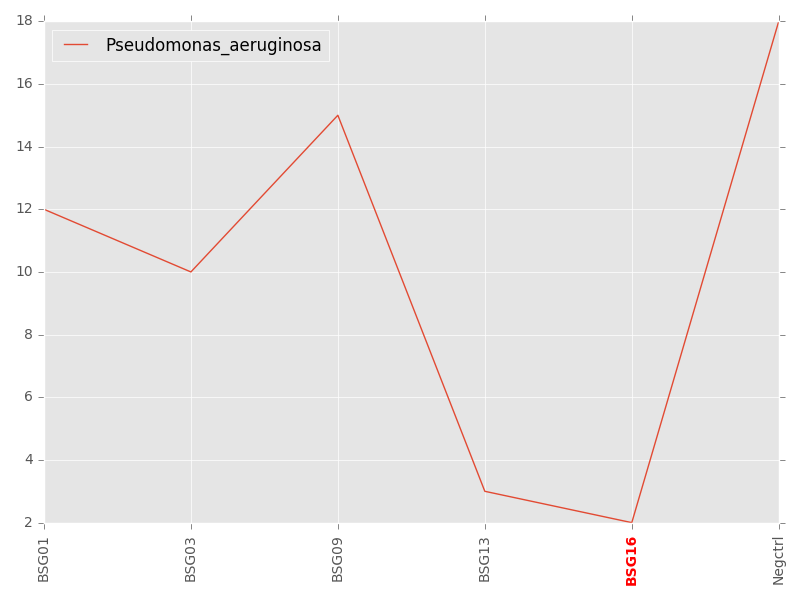
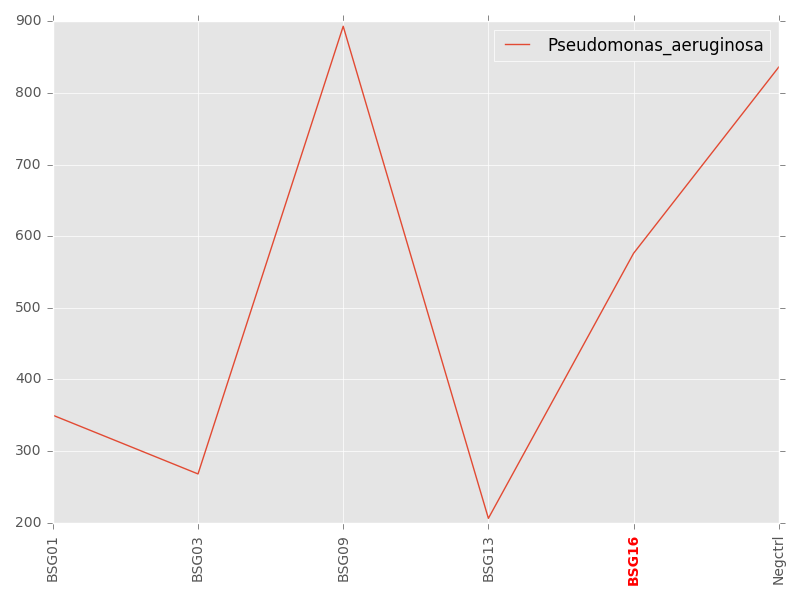
Madified plots

diff --git a/get_count_across_samples.py b/get_count_across_samples.py
@@ -16,10 +16,13 @@ tax_df['rank'] = [i.strip() for i in tax_df['rank']]
 def get_species_count(df, id, species_df, row_name, col_name):
     _t = df[df['tax_id'] == id]
     if not _t.empty:
+        species_df = species_df.fillna(0)
         val = 0
-        if row_name in species_df.index.values and col_name in species_df.columns.values:
-            val = species_df[col_name][row_name]
-        species_df = species_df.set_value(col_name, row_name, val + len(_t))
+        if col_name in species_df.index.values and row_name in species_df.columns.values:
+            val = species_df[row_name][col_name]
+        val += len(_t)
+        species_df = species_df.set_value(col_name, row_name, val)
+    return species_df
 
 def get_counts_df(path, species_df):
     df = pd.read_table(path, sep='\t', names=["classified", "id", "tax_id", "kmers", "text"])
@@ -28,17 +31,19 @@ def get_counts_df(path, species_df):
     print(name)
     for i in ids:
         col_name = tax_df.ix[i]['name'].replace(" ","_")
-        get_species_count(df, i, species_df, name, col_name)
+        species_df = get_species_count(df, i, species_df, name, col_name)
         parent_id = tax_df.ix[i]['parent_id']
         while tax_df.ix[parent_id]['rank'] != "genus":
             parent_id = tax_df.ix[parent_id]['parent_id']
         col_name = tax_df.ix[parent_id]['name'].replace(" ","_") + "_unclassified"
         if col_name not in species_df.columns.values:
-            get_species_count(df, parent_id, species_df, name, col_name)
+            species_df = get_species_count(df, parent_id, species_df, name, col_name)
         child = tax_df[tax_df['parent_id'] == i].index.values
         for _i in child:
             col_name = tax_df.ix[i]['name'].replace(" ","_")
-            get_species_count(df, _i, species_df, name, col_name)
+            species_df = get_species_count(df, _i, species_df, name, col_name)
+    print(species_df[name])
+    return species_df
 
 def format_df(df):
     for i in df.columns.values:
@@ -50,15 +55,15 @@ def plot_species(df):
     for i in range(0, len(cols), 2):
         print(cols[i])
         print(cols[i+1])
-        df[[cols[i], cols[i+1]]].plot()
+        df[[cols[i]]].plot()
         for tick in plt.gca().xaxis.get_major_ticks():
             sample_name = tick.label.get_text().split("_")[0]
             if cols[i].split("_")[0] in samples[sample_name]:                
-                tick.label1.set_color("red")
-                tick.label1.set_fontweight("bold")
+                tick.label.set_color("red")
+                tick.label.set_fontweight("bold")
         plt.xticks(rotation=90)
         plt.tight_layout()
-        plt.savefig("/Users/karthik/Documents/scripts/bacteremia/data/plots/species_genus/"+cols[i]+".png")
+        plt.savefig("/Users/karthik/Documents/bacteremia/data/plots/species/"+cols[i]+".png")
         plt.clf()
         
     
@@ -67,10 +72,11 @@ if __name__=="__main__":
     species_df = pd.DataFrame()
     for root, dirs, files in os.walk(folder):
         for f in files:
-            get_counts_df(root+f, species_df)
+            species_df = get_counts_df(root+f, species_df)
     species_df = species_df.transpose()
     species_df = species_df.sort_index(axis = 1)
     species_df.index = [i.split("_")[0] for i in species_df.index.values]
-    species_df.to_csv('/Users/karthik/Documents/scripts/bacteremia/data/species_plot.csv')
-    species_df = species_df.drop('Undetermined_S0_L001_R1_001.kraken.full.output')
+    species_df.to_csv('/Users/karthik/Documents/bacteremia/data/species_plot.csv')
+    species_df = species_df.drop('Undetermined')
     plot_species(species_df)
+    
